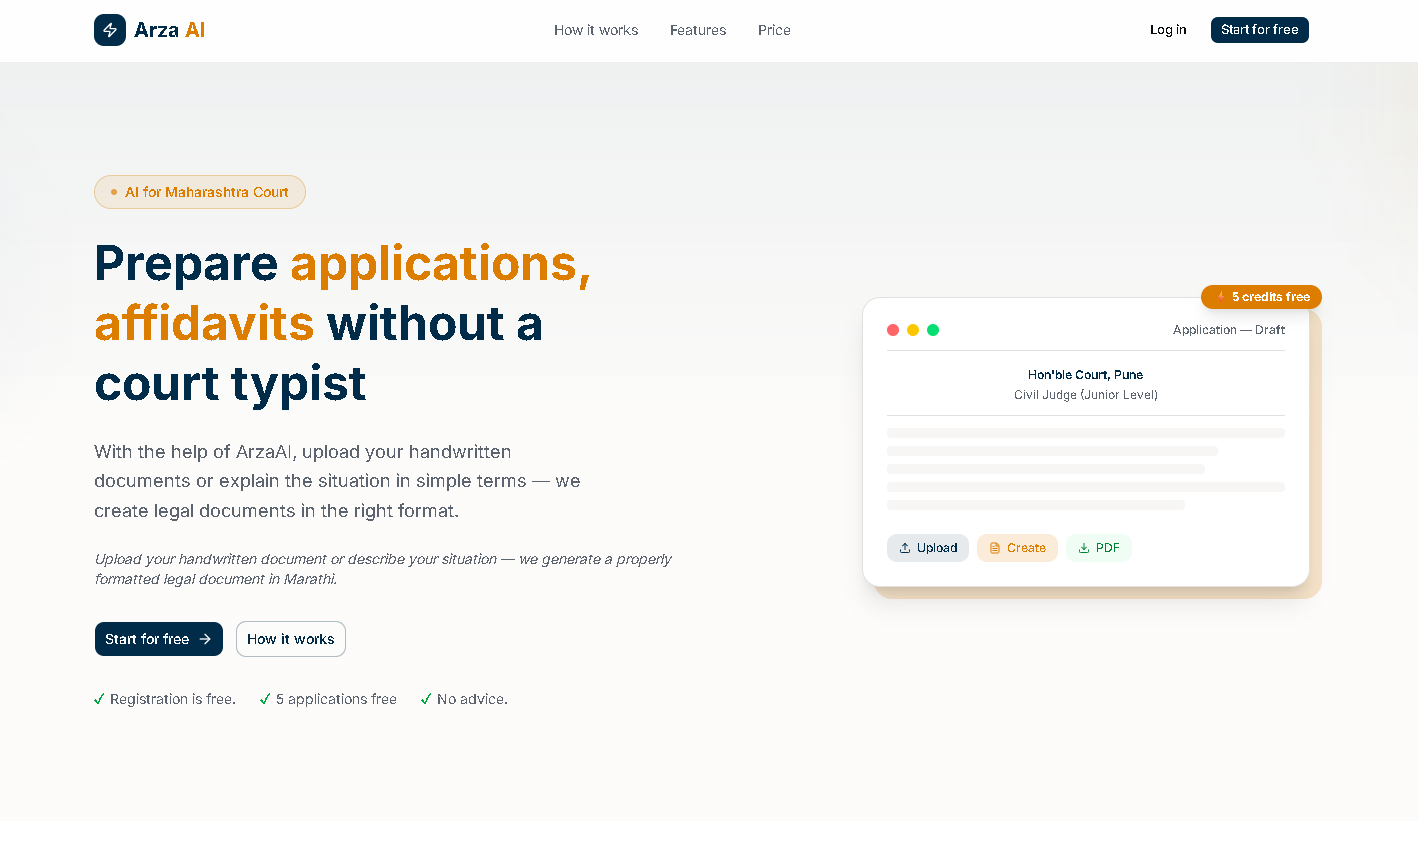
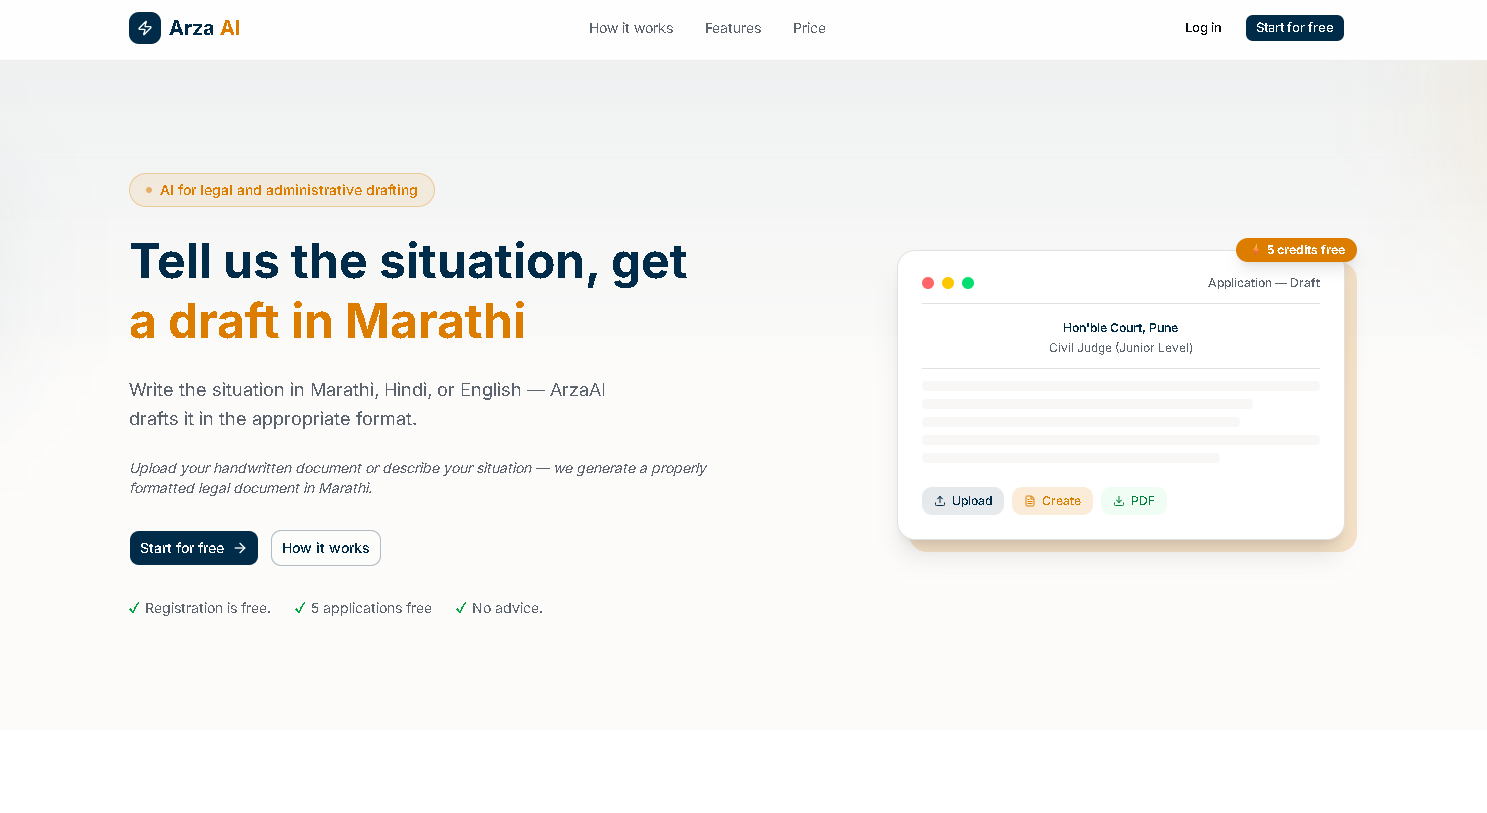
chore: updated hero section, navbar and readme file.

diff --git a/components/landing/hero.tsx b/components/landing/hero.tsx
@@ -18,19 +18,16 @@ export function Hero() {
           <div className="flex flex-col gap-6">
             <div className="inline-flex w-fit items-center gap-2 rounded-full border border-accent/30 bg-accent/10 px-4 py-1.5 text-sm font-medium text-accent">
               <span className="h-1.5 w-1.5 rounded-full bg-accent animate-pulse" />
-              महाराष्ट्र न्यायालयासाठी AI
+              कायदेशीर व प्रशासकीय मसुद्यांसाठी AI
             </div>
 
             <h1 className="text-4xl sm:text-5xl font-bold leading-tight text-primary">
-              कोर्ट टाइपिस्टशिवाय{" "}
-              <span className="text-accent">अर्ज, प्रतिज्ञापत्र</span>{" "}
-              तयार करा
+              परिस्थिती सांगा, <span className="text-accent">मराठीत मसुदा</span> मिळवा
             </h1>
 
             <p className="text-lg text-muted-foreground leading-relaxed max-w-lg">
-              ArzaAI च्या मदतीने तुमचे हस्तलिखित कागद अपलोड करा किंवा सोप्या
-              भाषेत परिस्थिती सांगा — आम्ही योग्य फॉर्मेटमध्ये कायदेशीर
-              कागदपत्र तयार करतो.
+              मराठी, हिंदी किंवा इंग्रजीत परिस्थिती लिहा — ArzaAI योग्य फॉरमॅटमध्ये
+              मसुदा तयार करते.
             </p>
 
             <p className="text-sm text-muted-foreground italic">

diff --git a/components/landing/navbar.tsx b/components/landing/navbar.tsx
@@ -66,10 +66,10 @@ export function Navbar() {
           </Link>
           <div className="pt-2 flex flex-col gap-2">
             <Button variant="outline" size="sm" asChild className="w-full">
-              <Link href="/login">लॉग इन</Link>
+              <Link href="/sign-in">लॉग इन</Link>
             </Button>
             <Button size="sm" className="w-full bg-primary" asChild>
-              <Link href="/signup">मोफत सुरू करा</Link>
+              <Link href="/sign-up">मोफत सुरू करा</Link>
             </Button>
           </div>
         </div>

diff --git a/README.md b/README.md
@@ -6,9 +6,9 @@
 
 ## Problem Statement
 
-Millions of Marathi-speaking people in Maharashtra depend on local revenue offices, police stations, consumer forums, and civil courts for everyday legal matters — land disputes, affidavits, complaints, RTI applications, and legal notices. Getting these documents typed correctly requires visiting a court typist, knowing the right legal language, and understanding the exact format each authority expects. This process is slow, expensive, and inaccessible for people in rural and semi-urban areas.
+Many people in Maharashtra face difficulties when preparing legal and administrative documents such as applications, complaints, affidavits, RTI requests, and notices. These documents often require specific formats and formal language, making the process time-consuming and challenging for those without legal drafting experience.
 
-ArzaAI eliminates this friction. Describe your situation in plain Marathi or Hindi — or upload a handwritten document — and the platform generates a properly formatted, court-ready legal document tailored to the specific authority (Talathi, Tahsildar, Police, Court, Notary, etc.). No typist, no legal jargon, no repeated visits.
+ArzaAI simplifies this process by allowing users to describe their situation in Marathi, Hindi, or English and generate structured Marathi document drafts tailored to the relevant authority. By making document drafting more accessible, ArzaAI helps users prepare legal and administrative paperwork faster and with greater ease.
 
 ## Features
 
@@ -131,4 +131,4 @@ Please keep PRs focused — one feature or fix per PR.
 
 ## License
 
-This project is private. All rights reserved.
+This project is licensed under the [MIT License](LICENSE).
